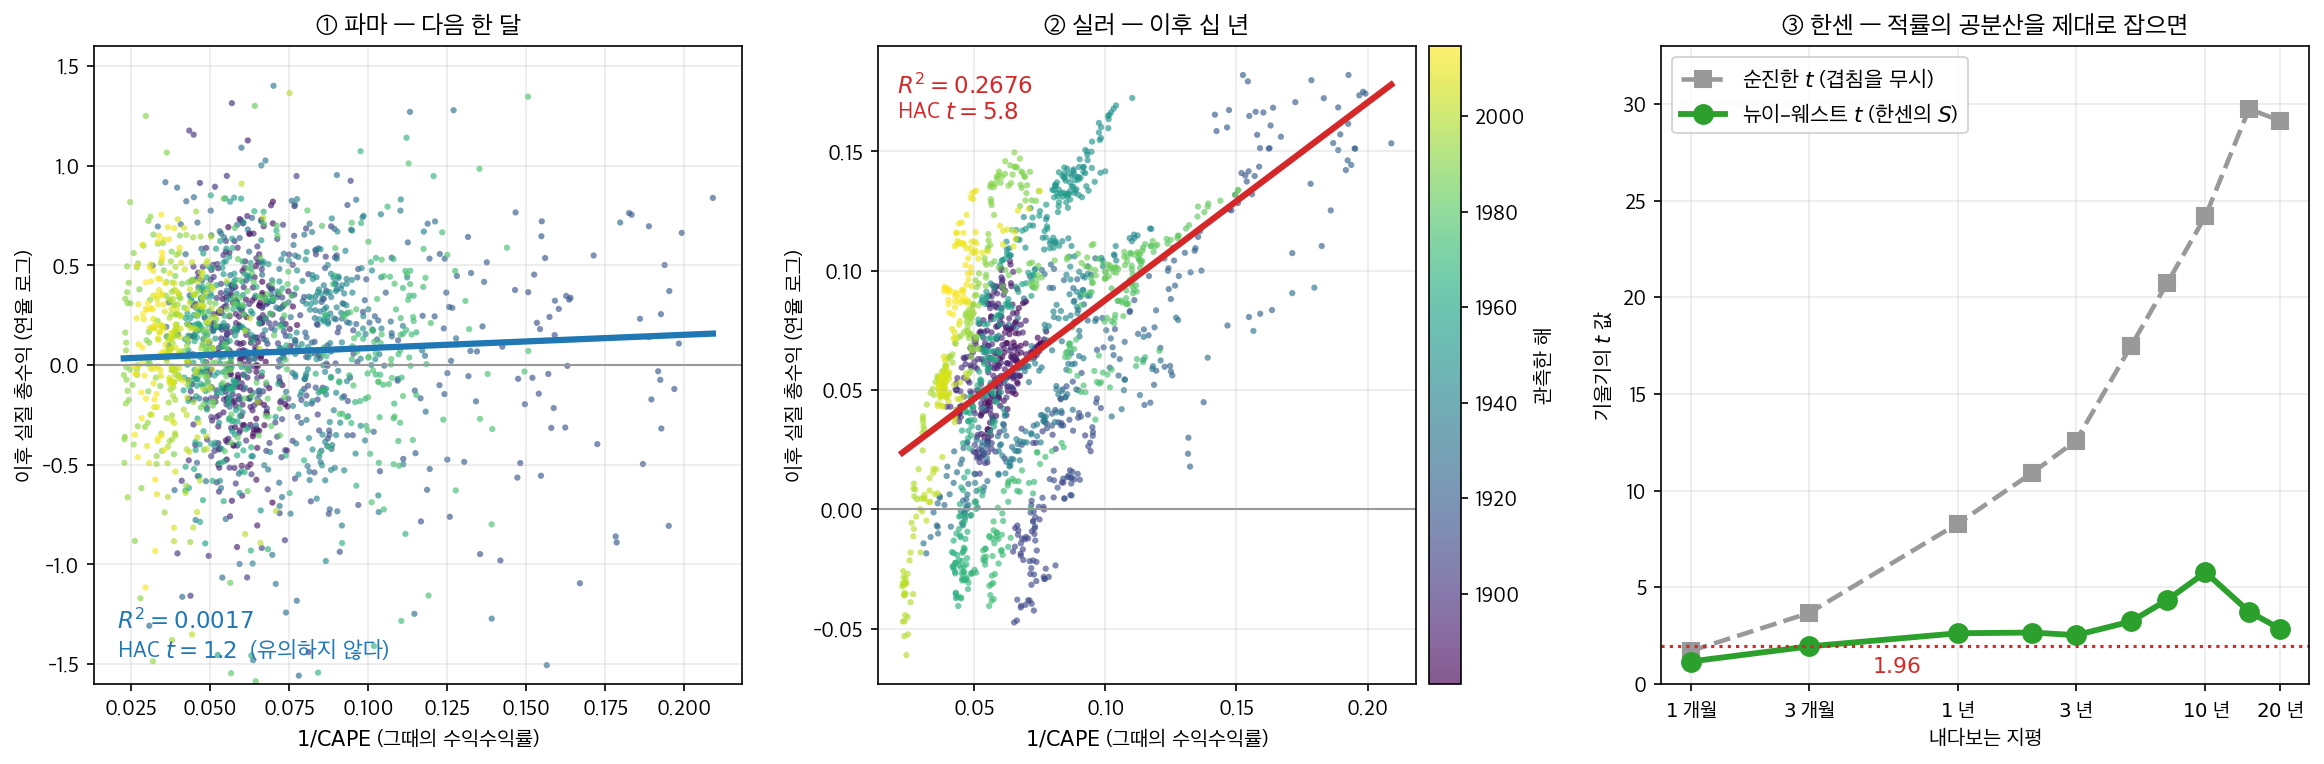
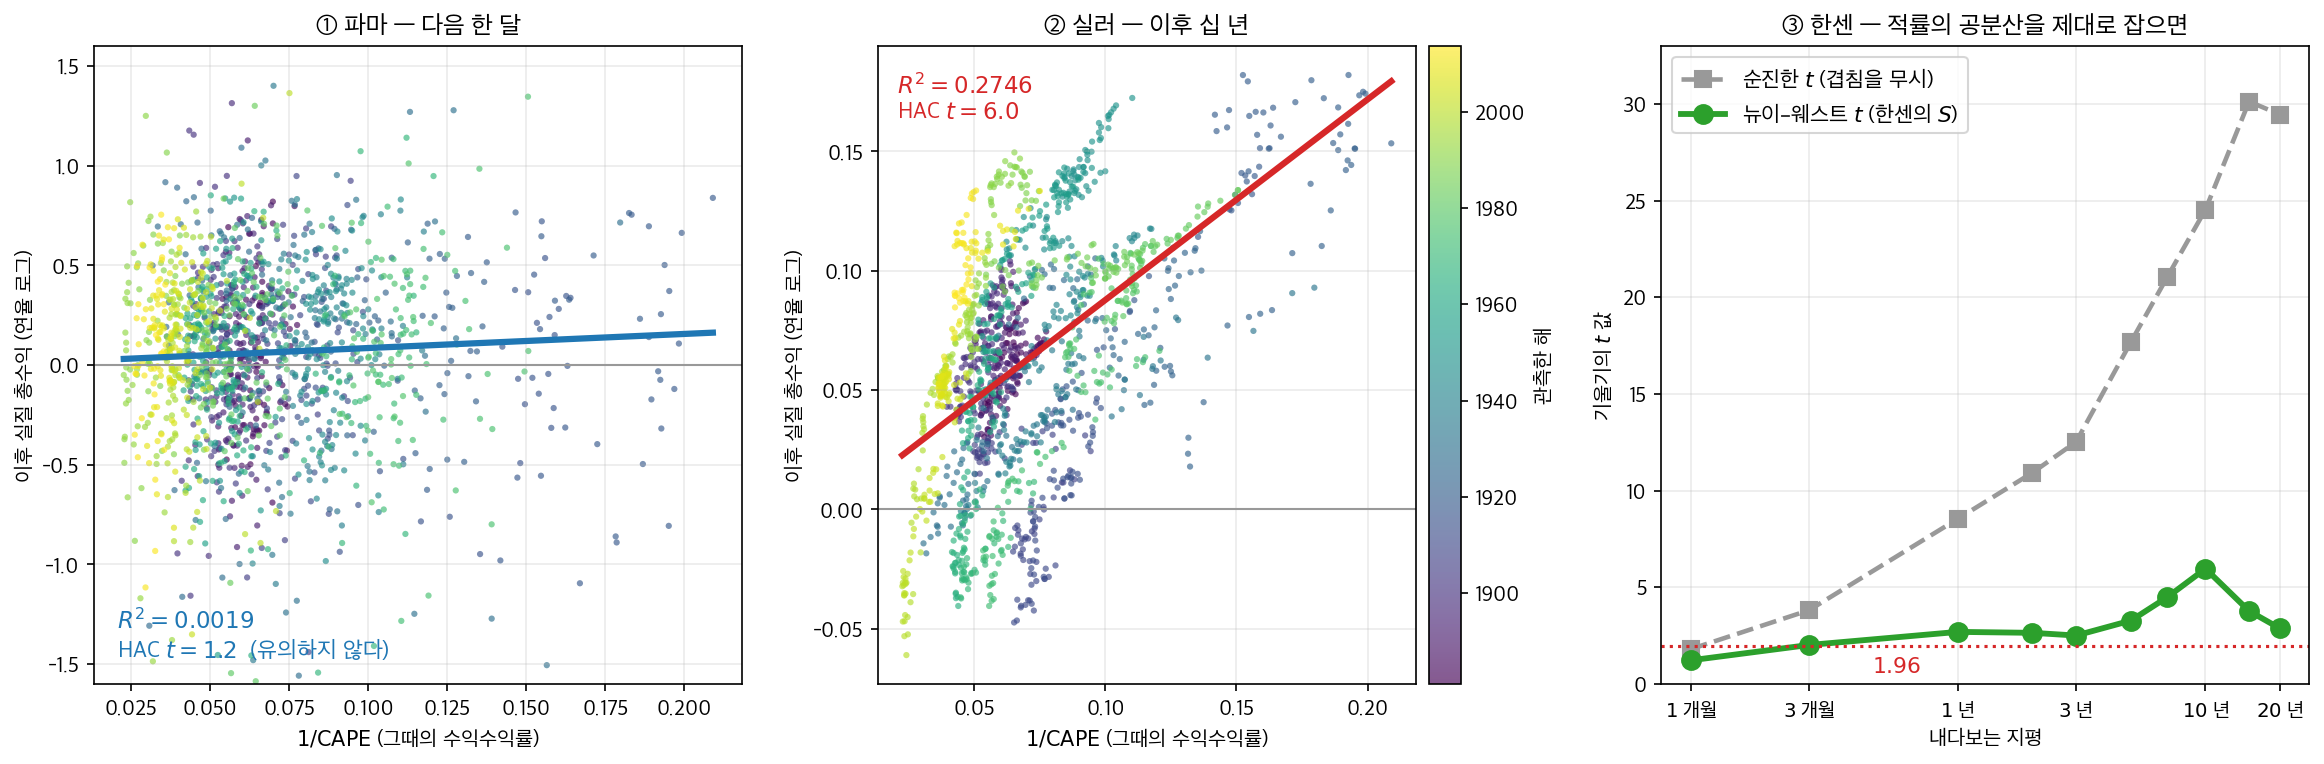
docs(ch06): 그림 상자 「반대되는 두 주장이 같은 해 상을 나눠 가졌다」
gmm.md 7절 뒤에 2013 년 경제학상 이야기를 붙였다. 파마와 실러가 반대되는
주장으로 같은 상을 받을 수 있었던 까닭이 셋째 사람의 방법이었다는 것,
그리고 그것이 이 쪽 경고 상자가 말하는 (1)과 (3)의 실물이라는 것.

실러가 공개한 자료 (1881.01-2023.09, 1,713 개월) 로 직접 계산했다.

- 1 1/CAPE 로 다음 한 달을 맞히면 R^2 = 0.0019 — 구름이다 (파마)
- 2 같은 변수로 이후 십 년을 맞히면 R^2 = 0.2746 (실러). 자료도 변수도
  같고 지평만 바꾸었다. 두 주장이 모순이 아닌 까닭이 여기 있다
- 3 그런데 십 년 지평의 이웃한 두 관측은 아홉 해 열한 달을 공유한다.
  순진한 t 는 24.5 이고 자기상관을 S 에 넣으면 6.0 으로 내려간다 — 네
  배가 부풀어 있었다. 3절의 W = S^-1 이 하는 일이 그것이다

20 년 지평에서 R^2 는 가장 큰데 HAC t 가 되레 2.9 로 내려가는 것을 note
상자에 적어 두었다. 겹치지 않는 20 년 토막이 일곱뿐이기 때문이다.

자료는 .gitignore 의 data/ 규약을 따라 담지 않는다. 스크립트가 없으면
실러의 쪽에서 받아 세 열로 추린다 (받을 때만 pandas·xlrd 가 든다).
보도자료는 직접 읽었고 한센 1982 는 서지만 확인했다고 출처 줄에 밝혔다.

diff --git a/scripts/make_ch06_nobel_2013_moments.py b/scripts/make_ch06_nobel_2013_moments.py
@@ -8,13 +8,16 @@ r"""반대되는 두 주장이 같은 해 상을 나눠 가졌다 — $2013$ 년
 ② 십 년 앞 — 같은 설명변수, 같은 자료인데 기울기가 또렷하다.
 ③ 겹치는 표본에서 순진한 $t$ 는 부풀어 있다 — 한센의 $S$ 가 하는 일.
 
-자료: 로버트 실러의 『비이성적 과열』 자료집에서 날짜·실질 총수익지수·CAPE 를
-뽑아 data/shiller_ie/ie_data_extract.csv 로 두었다 (원본은 ie_data.xls).
+자료: 로버트 실러가 공개하는 『비이성적 과열』 자료집 ie_data.xls 다. 저장소에는
+담지 않는다(.gitignore 의 data/). 없으면 이 스크립트가 받아서 세 열만 추려
+data/shiller_ie/ie_data_extract.csv 로 남긴다. 받는 데에만 xlrd 가 든다.
 
 만드는 파일: docs/ch06/estimation_methods/img/nobel_2013_moments.png
 """
 
 import csv
+import os
+import urllib.request
 
 import numpy as np
 import matplotlib
@@ -25,7 +28,32 @@ import matplotlib.pyplot as plt
 plt.rcParams["font.family"] = "Apple SD Gothic Neo"
 plt.rcParams["axes.unicode_minus"] = False
 
-SRC = "data/shiller_ie/ie_data_extract.csv"
+DIR = "data/shiller_ie"
+SRC = f"{DIR}/ie_data_extract.csv"
+XLS = f"{DIR}/ie_data.xls"
+URL = "http://www.econ.yale.edu/~shiller/data/ie_data.xls"
+
+
+def fetch():
+    """ie_data.xls 를 받아 날짜·실질 총수익지수·CAPE 세 열만 남긴다."""
+    import pandas as pd            # 내려받을 때만 든다
+    os.makedirs(DIR, exist_ok=True)
+    if not os.path.exists(XLS):
+        print(f"  {URL} 에서 받는 중...")
+        urllib.request.urlretrieve(URL, XLS)
+    d = pd.ExcelFile(XLS).parse("Data", header=None, skiprows=8)
+    d = d[[5, 9, 12]]
+    d.columns = ["date", "real_tr_price", "cape"]
+    d = d[pd.to_numeric(d["date"], errors="coerce").notna()]
+    for c in d.columns:
+        d[c] = pd.to_numeric(d[c], errors="coerce")
+    d.dropna(subset=["date", "real_tr_price"]).to_csv(
+        SRC, index=False, float_format="%.6f")
+    print(f"  {SRC} 로 추렸다.")
+
+
+if not os.path.exists(SRC):
+    fetch()
 
 rows = list(csv.DictReader(open(SRC)))
 DATE = np.array([float(r["date"]) for r in rows])
